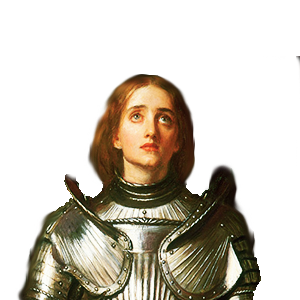
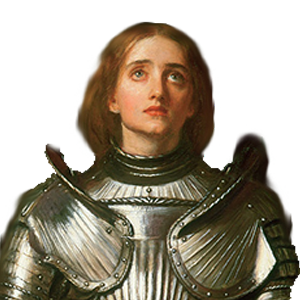
changed character array is app.js and the homepage images

diff --git a/js/app.js b/js/app.js
@@ -26,7 +26,11 @@ var allCharacters = [
 
   new newChar('Mother Teresa', ['../img/teresa.png', '../img/mother-teresa-face.png'], ['Take a drink, my child.'], ['Peace begins with a smile... and a smile starts with a drink.', 'Live simply so others may simply live.', 'If you can get one hundred people drunk, just get one person drunk.', 'Take a drink or fuck off.', 'I can do things you cannot, you can do things I cannot... but drinking isn\'t one of them!', 'This is childs play. You\'ll passout in no time.', 'If you judge people, you have no time to love them.']),
 
-  new newChar('Joan', ['../img/joan.png', '../img/joan2.png'], ['Take a drink, you fucking idiot!', 'I\'m jealous, I need that drink not YOU! Drink up!'], ['Time to work on my game.', 'On stage is the only place where I really know what I\'m doing.', 'I\'m John Belushi!', 'Nothing is over until we decide it is! Was it over when the Germans bombed Pearl Harbor? Hell, no!', 'Wise Up!', 'I suggest you go out and buy as many Blues albums as you can.', 'Drinking is no longer challenging.', 'You contemptable pig!', 'I owe it all to little chocolate donuts.', 'Christ, seven years of college, down the drain.'])
+  new newChar('Joan of Arc', ['../img/joan.png', '../img/joan2.png'], ['You are a poor soul, ' + userName + '!', 'God wants you to drink, ' + userName + '!', 'You look like you need a stiff one, ' + userName + '!'], ['I am not afraid... I was born to do this.', 'Children say that people are hung sometimes for speaking the truth.', 'I was in my thirteenth year when I heard a voice from God to help me govern my conduct. And the first time I was very much afraid.', 'If I am not, may God put me there; and if I am, may God so keep me.', 'I have a burning desire to DRINK!', 'The light comes at the same time as the Voice. …', ' I know nothing, but I do know that they will all be thrown out of France, except those who die there.']),
+
+  new newChar('Marie Antoinette', ['../img/marie.png', '../img/marie2.png'], ['If you keep this drinking up, I will have to do what was done to me and CUT YOU OFF!', 'All this drinking you are doing is making my head spin, ' + userName + '!', 'Let them drink beer!', 'Get your head in the game, ' + userName + '!', 'Don\'t lose your head over it ' + userName + '!'], ['Courage! I have shown it for years; think you I shall lose it at the moment when my sufferings are to end?', 'I have seen all, I have heard all, I have forgotten all.', 'No one understands my ills, nor the terror that fills my breast, who does not know the heart of a mother.', 'But how will I eat cake if my head is over there, and my hands are over here?', 'I am terrified of being bored.', 'Dreams weigh nothing.']),
+
+  new newChar('Eleanor Roosevelt', ['../img/elro1.png', '../img/elro2.png'], ['Take a drink, you fucking idiot!', 'I\'m jealous, I need that drink not YOU! Drink up!'], ['Time to work on my game.', 'On stage is the only place where I really know what I\'m doing.', 'I\'m John Belushi!', 'Nothing is over until we decide it is! Was it over when the Germans bombed Pearl Harbor? Hell, no!', 'Wise Up!', 'I suggest you go out and buy as many Blues albums as you can.', 'Drinking is no longer challenging.', 'You contemptable pig!', 'I owe it all to little chocolate donuts.', 'Christ, seven years of college, down the drain.'])
 ];
 
 var charIndex = localStorage.getItem('charIndex');

diff --git a/html/index.html b/html/index.html
@@ -59,7 +59,7 @@
         <h2 class="part1">Pick your partner</h2>
         <div class="partnerselect">
 
-          <label for="pic1" class="partnerselect__label">   <input name="partnerselect" id="pic1" type="radio" checked/><figcaption>Abe Lincoln</figcaption><img src="../img/abe2.png"></label>
+          <label for="pic1" class="partnerselect__label"><input name="partnerselect" id="pic1" type="radio" checked/><figcaption>Abe Lincoln</figcaption><img src="../img/abe2.png"></label>
 
           <label for="pic2" class="partnerselect__label"><input name="partnerselect" id="pic2" type="radio"/><figcaption>Genghis Khan</figcaption><img src="../img/genghis.png"></label>
 
@@ -71,10 +71,13 @@
 
           <label for="pic6" class="partnerselect__label"><input name="partnerselect" id="pic6" type="radio"/><figcaption>Gandhi</figcaption><img src="../img/Gandhi.png"></label>
 
-          <label for="pic7" class="partnerselect__label"><input name="partnerselect" id="pic7" type="radio"/><figcaption>Mother Teresa</figcaption><img src="../img/teresa.jpg"></label>
+          <label for="pic7" class="partnerselect__label"><input name="partnerselect" id="pic7" type="radio"/><figcaption>Mother Teresa</figcaption><img src="../img/teresa.png"></label>
 
-          <label for="pic8" class="partnerselect__label"><input name="partnerselect" id="pic8" type="radio"/><figcaption>John Belushi</figcaption><img src="../img/belushi2.jpg"></label>
+          <label for="pic8" class="partnerselect__label"><input name="partnerselect" id="pic8" type="radio"/><figcaption>Joan of Arc</figcaption><img src="../img/joan.png"></label>
 
+          <label for="pic9" class="partnerselect__label"><input name="partnerselect" id="pic9" type="radio"/><figcaption>Marie Antoinette</figcaption><img src="../img/marie2.png"></label>
+
+          <label for="pic10" class="partnerselect__label"><input name="partnerselect" id="pic10" type="radio"/><figcaption>Eleanor Roosevelt</figcaption><img src="../img/elro1.png"></label>
 
 
         </div>

diff --git a/css/page1.css b/css/page1.css
@@ -256,9 +256,9 @@ body {
 
 .partnerselect img {
   height: auto;
-  width: 7vw;
-  margin-left: 1vw;
-  margin-right: 1vw;
+  width: 12vw;
+  margin-left: 3vw;
+  margin-right: 3vw;
 }
 
 .partnerselect figcaption {
